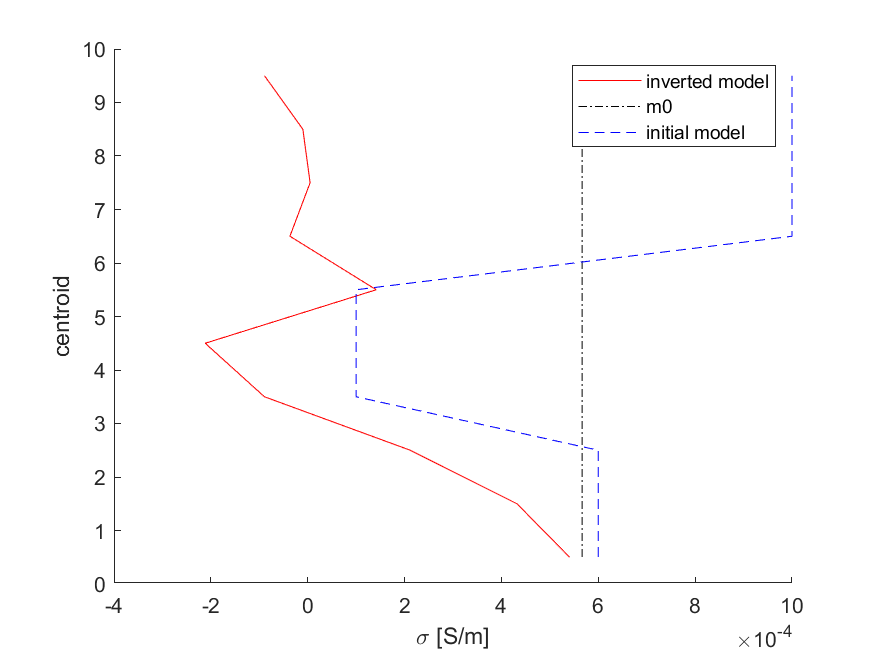
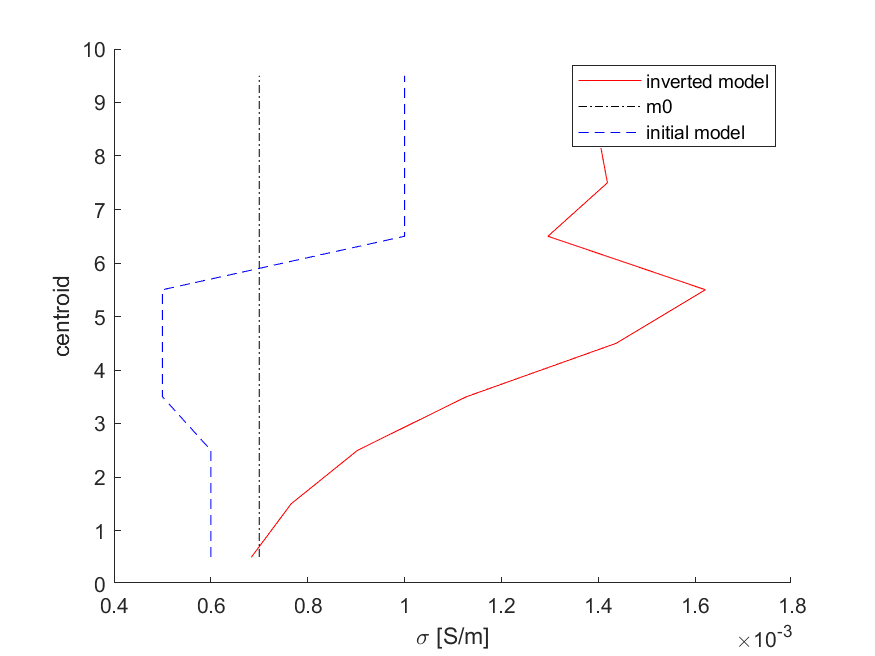
inversion update

diff --git a/matlab_models/EM_forward_model_anhorn.m b/matlab_models/EM_forward_model_anhorn.m
@@ -1,128 +1,43 @@
-clear all, close all, clc, 
+clear, close, clc, 
+
+tic 
 
 % //////////////////////////////////////////
 % FORWARD MODEL
 % //////////////////////////////////////////
-tic
 
-% initial conductivity
-sig = [1e-3; 1e-4; 6e-4];
-depth = 10;
+% initial parameters
+sig = [1e-3; 5e-2; 3e-2];
+nlayer = 100;
+depth = 15;
+prof = linspace(0, depth, nlayer);
 
-% frequency and depth
-freq = 1.6e5;
-% depth = round(500/sqrt(sig(1)*freq)); % depth [m]
-z = [];
-for i = 1:length(sig)
-    z = [z ceil(i/length(sig) * depth)];
+z = [0 ceil([1:length(sig)-1]/length(sig)*depth)];
+
+resmap = ones(length(prof),1)*sig(1);
+for i = 1:length(sig)-1
+    resmap(round(i/length(sig)*length(resmap)):...
+        round((i+1)/length(sig)*length(resmap))) = sig(i+1);
 end
-
-% building inital conductivity model
-distance = 50; % A-B distance [m]
-resmap = ones(depth, distance);
-% resmap(1:end,1:end) = sig(1);
-% resmap(z(1):z(2),1:end) = sig(2);
-% resmap(z(2):end,1:end) = sig(3);
-resmap(1:end,1:end) = sig(1);
-for i = 1:length(z)-1
-    resmap(z(i):z(i+1), 1:end) = sig(i+1);
-end
-
-% plotting the initial model 
-% initial_model = figure(1);
-% hold on
-% pcolor(resmap)
-% xlabel('x')
-% ylabel('depth')
-% title('conductvity model')
-% colorbar
-% hold off
-% saveas(initial_model, 'initial_model.png')
-
-% one dimension model :
-position = 22; % random x on the 2D model to go in the 1D model
-nlay = depth; % 
-thkness = 1; % [m]
-thk = ones(1, nlay); % creating a thickness matrix
-thk = thk*thkness; % thickness matrix
-centroid = cumsum(thk) - thk/2; % layer centroids
-resEM = ones(1, nlay)*resmap(1, position); % resistivity model
-
-% indexing "inversion" (0:0 must be at the reference)
-for i = centroid(2:end)
-    if i < depth
-        ab = depth+1-round(i);
-        ab2 = floor(i/thkness);
-        resEM(ab2) = resmap(ab, position);
-    end
-end
-
-% plotting the forward model
-% figure(2)
-% hold on
-% plot(resEM, centroid)
-% ylabel('centroids')
-% xlabel('conductivity \sigma')
-% title('forward model')
-% hold off
 
 %  /////////////////////////////////////////
-% giving sigma_a
+% sigma_a and data_obs
 % ///////////////////////////////////////
 
-% forwardEM1D(ztop, sigma, orient, sep)
+% forwardEM1D(ztop, sigma, sep)
 % ztop is a column vector containing the z-coordinate of the *top* of each layer [m]
 % sigma is a column vector containing the true electrical conductivity of each layer [S/m]
 % orient is a scalar value specifying the dipole orientation (0 = vertical; 1 = horizontal)
 % sep is a scalar value specifying the coil separation [m]
-% if two direction desired : sigma_a = [sigma_a_v sigma_a_h] ?
 
-coilsep = 20e1;
-ori = 0;
-sigma_a = forwardEM1D(z, sig, ori, coilsep);
-disp(sigma_a)
+% valeurs test :
+sig = [20e-3; 2e-3;20e-3];
+z = [0; 0.5; 1.5];
 
-% /////////////////////////////////////////////
-% Inversion ???
-% /////////////////////////////////////////////
-
-dstd = 1e0; % 
-lambda = 1e0; % 
-k = 1:1:length(centroid);
-m0 = ones(length(centroid), 1) * mean(sig);
-
-% not sure of how to build matrix A (or G depending the source)
-A = zeros(length(centroid), length(k));
-A(:, :) = centroid(:).^repmat(k, length(centroid), 1);
-
-L = (1/dstd)*speye(length(centroid));
-Qv = (4*(centroid./coilsep))./((4*(centroid.^2)./(coilsep.^2)+1).^(3/2));
-Qh = 2 - ((4*(centroid./coilsep))/(sqrt(4*((centroid.^2)./(coilsep.^2))))) ;
-
-Wd = L'*L;
-Wm = diag(1./Qv);
-
-% We get a correct matrix m^N but not optimized.
-m = m0 + inv(Wm)*A'*inv(A*inv(Wm)*A'+Wd*lambda^2)*(sigma_a-A*m0);
-% m(m<0) = 0; % to not have "negative conductivity ?
-
-% optimization ?
-% phid = (A*m - sigma_a)'.*Wd*(A*m - sigma_a);
-% phim = (m - m0)'.*Wm*(m-m0);
-
-inversion = figure(4);
-hold on
-plot(m, centroid, 'r')
-plot(m0, centroid, 'k-.')
-plot(resEM, centroid, 'b--')
-legend('inverted model', 'm0', 'initial model')
-ylabel('centroid')
-xlabel('\sigma [S/m]')
-% xlim([-1e-4 2e-3])
-hold off
-saveas(inversion, 'inversion_plt.png')
-
-% ??
+coilsep = 1:0.5:8; % setting up coilspacing
+% orientation = ; % setting up orientation
+DataObs = forwardEM1D(z, sig, coilsep); % calling function
+save DataObs
 
 % /////////////////////////////////////////////
 toc
@@ -131,16 +46,20 @@ toc
 % functions 
 % /////////////////////////////////
 
-% -> weight W could be better 
-
-function C = forwardEM1D(ztop, sigma, orient, sep)
-    if orient == 1     % 1 = horizontal
-        R = ((4.*((ztop./sep).^2)+1).^(1/2))-2.*(ztop./sep);
-    elseif orient == 0 % 0 = vertical
-        R = ((4.*((ztop./sep).^2)+1).^(1/2)).\1;
-    end
-    C = sigma(1)*(1-R(1)) + sigma(end)*R(end);
-        for j = 2:length(sigma)-1
-           C = C + sigma(j).*(R(j-1) - R(j));
+function forward = forwardEM1D(ztop, sigma, coilsep)
+    sep = repmat(coilsep,1, 2)'; % setting up coilspacing
+    disp(sep)
+    orientation = [ones(1, length(coilsep)) zeros(1, length(coilsep))]; % giving for each coilspacing orientation 1 and 0
+    forward = ones(length(sep), 3);
+    for i = 1:length(sep)
+        if orientation(i) == 1     % 1 = horizontal
+            w = ((4.*((ztop./sep(i)).^2)+1).^(1/2))-2.*(ztop./sep(i));
+        elseif orientation(i) == 0 % 0 = vertical
+            w = ((4.*((ztop./sep(i)).^2)+1).^(1/2)).\1;
         end
+        R = w(1:end-1)-w(2:end); % R = weight (R(zn) - R(zn+1))
+        R(end+1) = w(end); % R(end) = only R(z)
+        surf_sig = sum(sigma(:).*R(:)); % sigma_a
+        forward(i,:) = [surf_sig sep(i) orientation(i)]; % building matrix Nx3
+    end
 end

diff --git a/matlab_models/inversion_v1.m b/matlab_models/inversion_v1.m
@@ -1,28 +1,26 @@
 clear all, close all, clc, 
 
+tic
+
 % //////////////////////////////////////////
 % FORWARD MODEL
 % //////////////////////////////////////////
-tic
 
-% initial conductivity
-sig = [1e-1; 8e-2; 7e-2];
+% initial parameters
+sig = [1e-3; 5e-4; 6e-4];
 depth = 10;
+distance = 50; % A-B distance [m]
 
 % frequency and depth
-freq = 1.6e5;
+% freq = 1.6e5;
 % depth = round(500/sqrt(sig(1)*freq)); % depth [m]
 z = [];
 for i = 1:length(sig)
     z = [z ceil(i/length(sig) * depth)];
 end
 
-% building inital conductivity model
-distance = 50; % A-B distance [m]
+% building inital conductivity model -> 1D
 resmap = ones(depth, distance);
-% resmap(1:end,1:end) = sig(1);
-% resmap(z(1):z(2),1:end) = sig(2);
-% resmap(z(2):end,1:end) = sig(3);
 resmap(1:end,1:end) = sig(1);
 for i = 1:length(z)-1
     resmap(z(i):z(i+1), 1:end) = sig(i+1);
@@ -57,15 +55,6 @@ for i = centroid(2:end)
     end
 end
 
-% plotting the forward model
-% figure(2)
-% hold on
-% plot(resEM, centroid)
-% ylabel('centroids')
-% xlabel('conductivity \sigma')
-% title('forward model')
-% hold off
-
 %  /////////////////////////////////////////
 % giving sigma_a
 % ///////////////////////////////////////
@@ -77,50 +66,54 @@ end
 % sep is a scalar value specifying the coil separation [m]
 % if two direction desired : sigma_a = [sigma_a_v sigma_a_h] ?
 
-coilsep = 1;
-ori = 0;
-sigma_a = forwardEM1D(z, sig, ori, coilsep);
-disp(sigma_a)
+% + Créer une matrice 3xN -> avec sigma, sep, orient
+
+% d_tot = GeometricalData(z, sig, coilsep, ori);
+% sigma_a = forwardEM1D(z, sig, ori, coilsep);
+% disp('sigma_a = ' );disp(sigma_a)
 
 % /////////////////////////////////////////////
 % Inversion ???
 % /////////////////////////////////////////////
+% G est quelque chose de linéair -> sigma a est une moyenne pondérée 
+% 
 
-dstd = 1e0;
-lambda = 1e0;
-k = 1:1:length(centroid);
-m0 = ones(length(centroid), 1) * mean(sig);
-
-% not sure of how to build matrix A (or G depending the source)
-A = zeros(length(centroid), length(k));
-A(:, :) = centroid(:).^repmat(k, length(centroid), 1);
-
-L = (1/dstd)*speye(length(centroid));
-Qv = (4*(centroid./coilsep))./((4*(centroid.^2)./(coilsep.^2)+1).^(3/2));
-Qh = 2 - ((4*(centroid./coilsep))/(sqrt(4*((centroid.^2)./(coilsep.^2))))) ;
-
-Wd = L'*L;
-Wm = diag(1./Qv);
+% dstd = 1e-1; % 
+% lambda = 2e0; % 
+% k = 1:1:length(centroid);
+% m0 = ones(length(centroid), 1) * mean(sig);
+% % m0 = resEM';
+% 
+% % not sure of how to build matrix A (or G depending the source)
+% A = zeros(length(centroid), length(k));
+% A(:, :) = centroid(:).^repmat(k, length(centroid), 1);
+% 
+% L = (1/dstd)*speye(length(centroid));
+% Qv = (4*(centroid./coilsep))./((4*(centroid.^2)./(coilsep.^2)+1).^(3/2));
+% Qh = 2 - ((4*(centroid./coilsep))/(sqrt(4*((centroid.^2)./(coilsep.^2))))) ;
+% 
+% Wd = L'*L;
+% Wm = diag(1./Qv);
 
 % We get a correct matrix m^N but not optimized.
-m = m0 + inv(Wm)*A'*inv(A*inv(Wm)*A'+Wd*lambda)*(sigma_a-A*m0);
-% m(m<0) = 0; % to not have "negative conductivity ?
+% m = m0 + inv(Wm)*A'*inv(A*inv(Wm)*A'-Wd*lambda)*(sigma_a+A*m0);
+% m(m<0) = 0; % to not have "negative" conductivity ?
 
 % optimization ?
 % phid = (A*m - sigma_a)'.*Wd*(A*m - sigma_a);
 % phim = (m - m0)'.*Wm*(m-m0);
 
-inversion = figure(4);
-hold on
-plot(m, centroid, 'r')
-plot(m0, centroid, 'k-.')
-plot(resEM, centroid, 'b--')
-legend('inverted model', 'm0', 'initial model')
-ylabel('centroid')
-xlabel('\sigma [S/m]')
-xlim([-1e-4 2e-3])
-hold off
-saveas(inversion, 'inversion_plt.png')
+% inversion = figure(4);
+% hold on
+% plot(m, centroid, 'r')
+% plot(m0, centroid, 'k-.')
+% plot(resEM, centroid, 'b--')
+% legend('inverted model', 'm0', 'initial model')
+% ylabel('centroid')
+% xlabel('\sigma [S/m]')
+% % xlim([-1e-4 2e-3])
+% hold off
+% saveas(inversion, 'inversion_plt.png')
 
 % ??
 
@@ -131,16 +124,39 @@ toc
 % functions 
 % /////////////////////////////////
 
-% -> weight W could be better 
+sig = [20e-3; 2e-3; 20e-3];
+z = [0; 0.5; 1.5];
+coilsep = [1 2 3 4];
+coilsep_tot = repmat(coilsep,1, 2);
+ori = [ones(1, length(coilsep)) zeros(1, length(coilsep))];
 
-function C = forwardEM1D(ztop, sigma, orient, sep)
-    if orient == 1     % 1 = horizontal
-        R = ((4.*((ztop./sep).^2)+1).^(1/2))-2.*(ztop./sep);
-    elseif orient == 0 % 0 = vertical
-        R = ((4.*((ztop./sep).^2)+1).^(1/2)).\1;
-    end
-    C = sigma(1)*(1-R(1)) + sigma(end)*R(end);
-        for j = 2:length(sigma)-1
-           C = C + sigma(j).*(R(j-1) - R(j));
-        end
+for i = 1:length(coilsep_tot)
+    sigma_tot(i) = test(z, sig, ori(i), coilsep_tot(i));
 end
+
+data_obs = [sigma_tot; coilsep_tot; ori]';
+
+function surf_sig = test(ztop, sigma, orient, sep)
+    if orient == 1     % 1 = horizontal
+        w = ((4.*((ztop./sep).^2)+1).^(1/2))-2.*(ztop./sep);
+    elseif orient == 0 % 0 = vertical
+        w = ((4.*((ztop./sep).^2)+1).^(1/2)).\1;
+    end
+	R = w(1:end-1)-w(2:end);
+    R(end+1) = w(end);
+    surf_sig = sum(sigma(:).*R(:));
+end
+
+% function data = GeometricalData(z_top, sigma_true, coilseparation, orientation)
+%     data = [];
+%     data(:) = [forwardEM1D(z_top, sigma_true, coilseparation(:), orientation(:)) coilspacing orientation];
+% end
+
+
+
+
+
+
+
+
+
